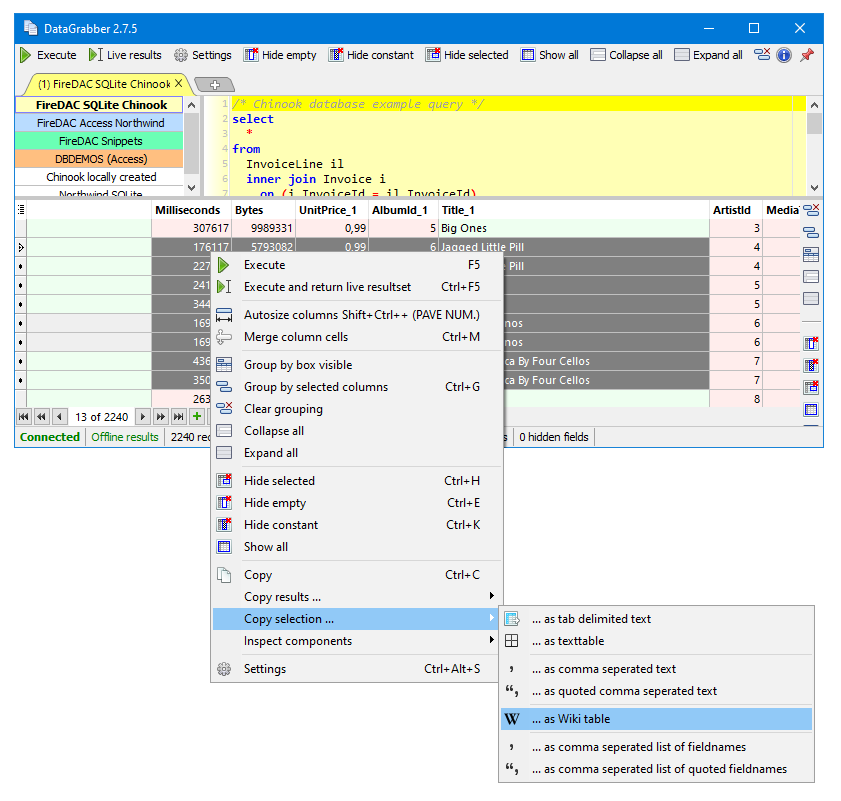
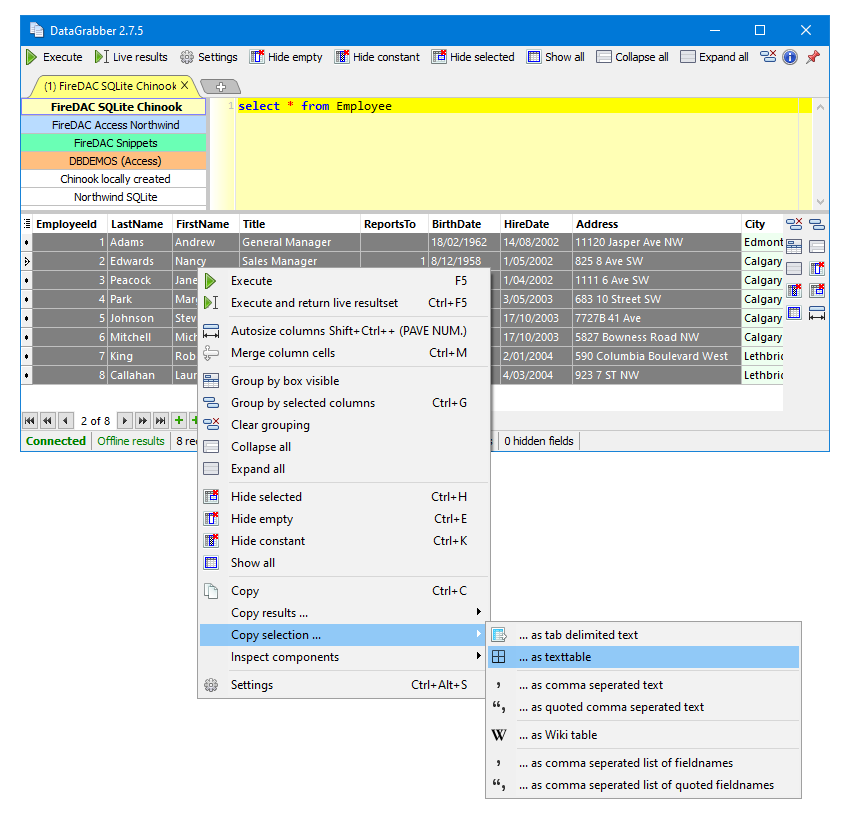
Update README.md

Changed region(s): [[0.0, 0.0, 0.9893, 0.9988]]

diff --git a/README.md b/README.md
@@ -36,15 +36,20 @@ It makes use of my **DDuce** library which holds some common modules that are sh
 
 ![DataGrabber](https://github.com/beNative/DataGrabber/blob/master/Images/DataGrabber.Export.png)
 
-||EmployeeId||LastName||FirstName||Title||ReportsTo||BirthDate||HireDate||Address||
-|1|Adams|Andrew|General Manager| |18/02/1962|14/08/2002|11120 Jasper Ave NW|
-|2|Edwards|Nancy|Sales Manager|1|8/12/1958|1/05/2002|825 8 Ave SW|
-|3|Peacock|Jane|Sales Support Agent|2|29/08/1973|1/04/2002|1111 6 Ave SW|
-|4|Park|Margaret|Sales Support Agent|2|19/09/1947|3/05/2003|683 10 Street SW|
-|5|Johnson|Steve|Sales Support Agent|2|3/03/1965|17/10/2003|7727B 41 Ave|
-|6|Mitchell|Michael|IT Manager|1|1/07/1973|17/10/2003|5827 Bowness Road NW|
-|7|King|Robert|IT Staff|6|29/05/1970|2/01/2004|590 Columbia Boulevard West|
-|8|Callahan|Laura|IT Staff|6|9/01/1968|4/03/2004|923 7 ST NW|
+```
++----------+--------+---------+-------------------+---------+----------+----------+---------------------------+
+|EmployeeId|LastName|FirstName|Title              |ReportsTo|BirthDate |HireDate  |Address                    |
++----------+--------+---------+-------------------+---------+----------+----------+---------------------------+
+|1         |Adams   |Andrew   |General Manager    |         |18/02/1962|14/08/2002|11120 Jasper Ave NW        |
+|2         |Edwards |Nancy    |Sales Manager      |1        |8/12/1958 |1/05/2002 |825 8 Ave SW               |
+|3         |Peacock |Jane     |Sales Support Agent|2        |29/08/1973|1/04/2002 |1111 6 Ave SW              |
+|4         |Park    |Margaret |Sales Support Agent|2        |19/09/1947|3/05/2003 |683 10 Street SW           |
+|5         |Johnson |Steve    |Sales Support Agent|2        |3/03/1965 |17/10/2003|7727B 41 Ave               |
+|6         |Mitchell|Michael  |IT Manager         |1        |1/07/1973 |17/10/2003|5827 Bowness Road NW       |
+|7         |King    |Robert   |IT Staff           |6        |29/05/1970|2/01/2004 |590 Columbia Boulevard West|
+|8         |Callahan|Laura    |IT Staff           |6        |9/01/1968 |4/03/2004 |923 7 ST NW                |
++----------+--------+---------+-------------------+---------+----------+----------+---------------------------+
+```
 
 ## Multiple resultsets
 DataGrabber supports multi-resultset outputs, which can be displayed horizontally, vertically or as seperate tabs.
